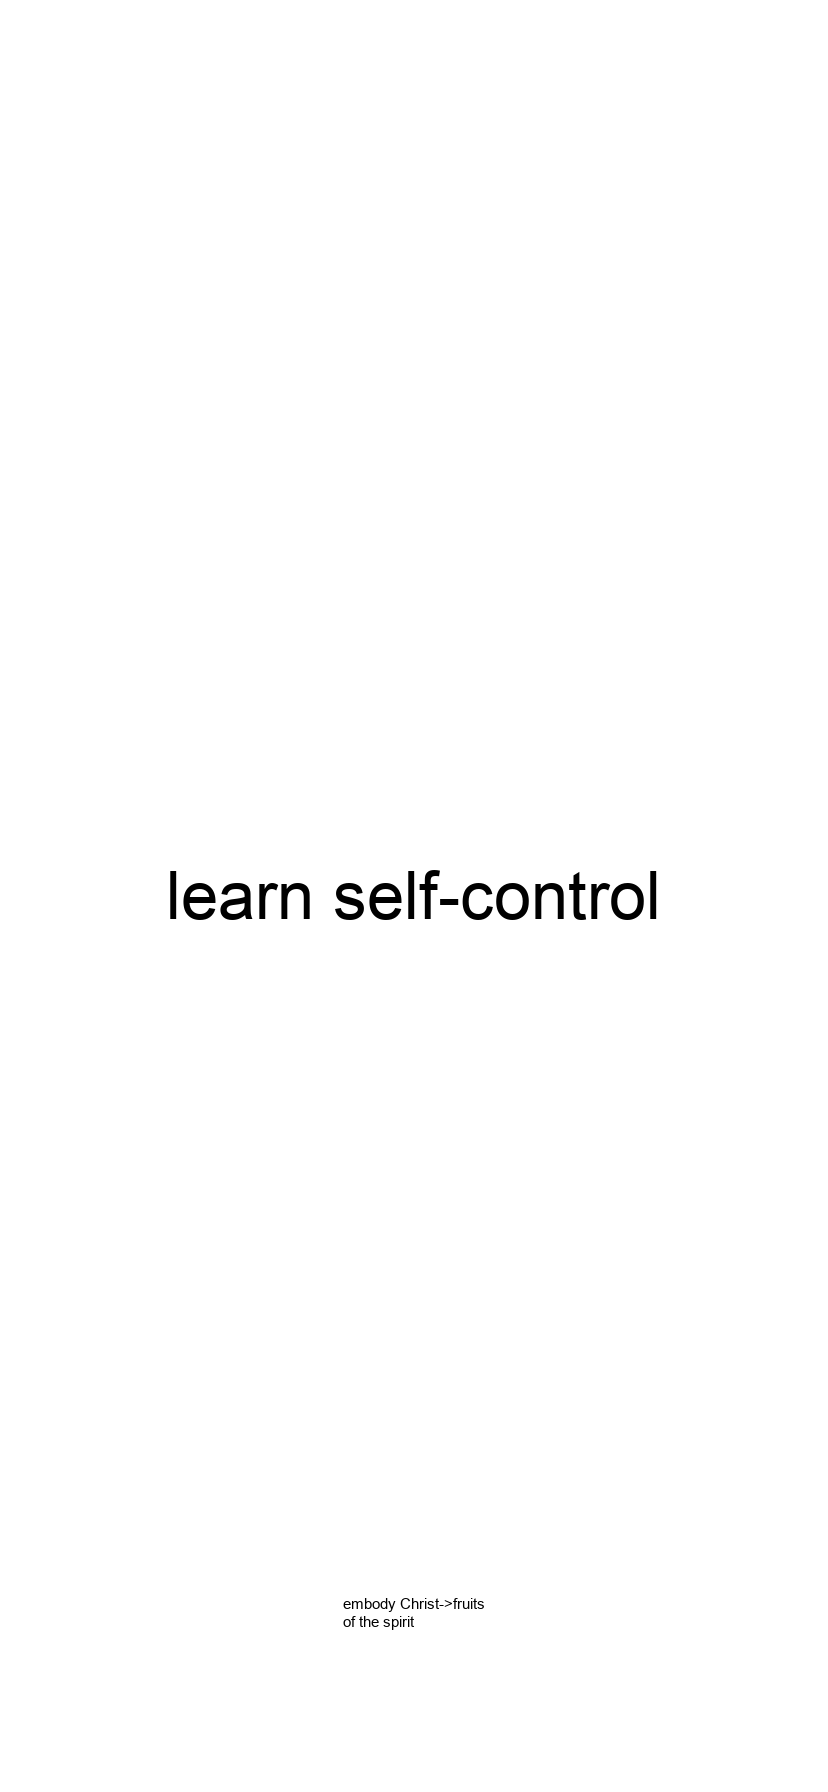
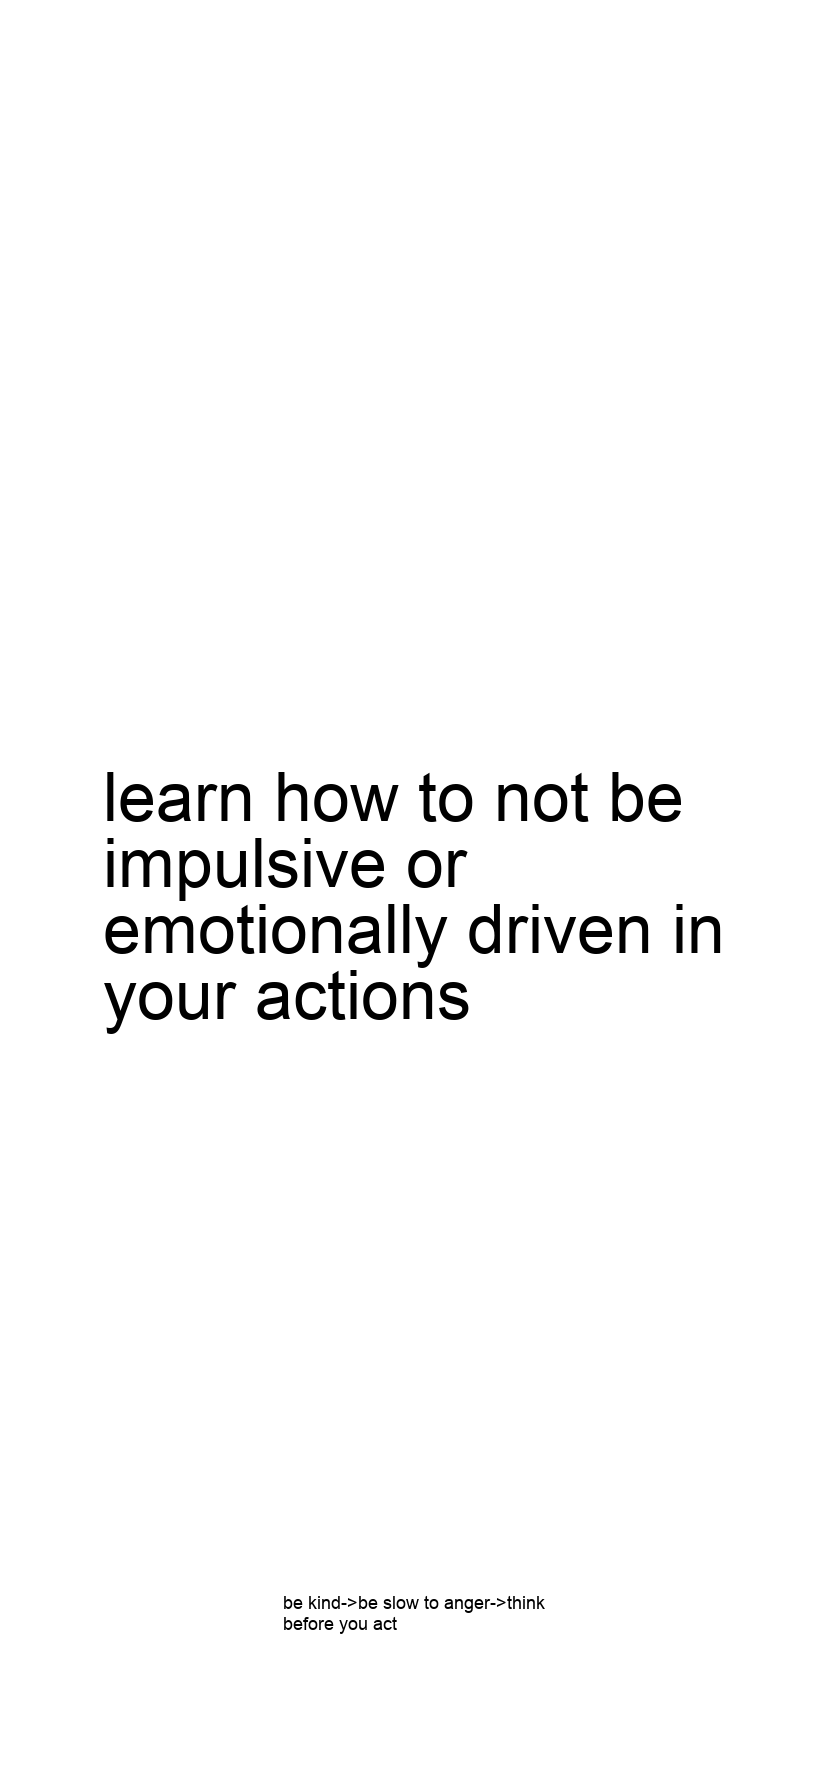
fixed bottom scaling

Changed region(s): [[0.1208, 0.4375, 0.8756, 0.5938], [0.3321, 0.875, 0.5737, 0.9062]]

diff --git a/main.py b/main.py
@@ -82,18 +82,16 @@ font_size = 1000
 font = ImageFont.truetype("Arial.ttf", font_size)
 
 text = ttp
-print(type(ttp))
+
 while font_size > 1:
   if font.getlength(text) < width*.6:
     break
   font_size -= 1
   font = font.font_variant(size=font_size)
 
-print(font_size)
-print(width/font_size)
-print((width/font_size))
+font_size1f=font_size
 text, text_l = get_wrapped_text(text, font, line_length=((10*font_size)))
-print(text_l)
+
 
 if text_l == 2:
     font = font.font_variant(size=font_size*1.33)
@@ -102,33 +100,48 @@ elif text_l > 2:
     font = font.font_variant(size=font_size*text_l)
 
 draw.multiline_text((width / 2, height / 2), text, font=font, fill="black", anchor="mm")
-print(ttp)
+
 chosen_path = lookup_path(ttp)
 chosen_path = "->".join(chosen_path[:-1])
-print(chosen_path)
+cp_len = len(chosen_path)
 
-font_size = 1000
-font2 = ImageFont.truetype("Arial.ttf", font_size)
-while font_size > 1:
-  if font2.getlength(text) < width*.6:
-    break
-  font_size -= 1
-  font2 = font2.font_variant(size=font_size)
+fl_final = font_size
 
-text2, text_l2 = get_wrapped_text(chosen_path, font2, line_length=((10*font_size)))
+# font_size = 1000
+font2 = ImageFont.truetype("Arial.ttf", font_size1f*.66)
+# while font_size > 1:
+#   if font2.getlength(text) < width*.6:
+#     break
+#   font_size -= 1
+#   font2 = font2.font_variant(size=font_size)
 
-font2 = font2.font_variant(size=font_size*(text_l2/height*100)*text_l2)
 
-# if text_l2 == 2:
-#     font2 = font2.font_variant(size=font_size*.66)
 
-# elif text_l2 > 2:
-#     font2 = font2.font_variant(size=font_size*0.225*text_l2)
+# print(font_size)
+t2_ll = 10*font_size1f
+text2, text_l2 = get_wrapped_text(chosen_path, font2, line_length=t2_ll)
 
+# # font_size2 = 1
+# while font_size1f:
+#     # iterate until the text size is just larger than the criteria
+#     font_size1f -= 1
+#     font2 = font2.font_variant(size=font_size)
+
+# print(str(t2_ll) + ":1")
+# print(str(cp_len) + ":2")
+# print('font size 2: ' + str(font_size))
+#font2 = font2.font_variant(size=(t2_ll // cp_len) * height/font_size // font_size)
+
+print(str(text_l2) + ":" + str(cp_len))
+font_size2f=font_size1f*(1.33 * text_l2)*.33
+print(str(font_size1f) + ":" + str(font_size2f) + ":" + str(20- (20 *(1/(font_size1f*0.66)))) + ":" + str(fl_final))
+
+
+font2 = font2.font_variant(size=20- (20 *(1/(font_size1f*0.66))))
 draw.multiline_text((width / 2, height-(height*0.1)), text=text2, font=font2, fill="black", anchor="mm" )
 im.save("static/out.png")
 
-print(text_l2)
+
 
 
 # account_sid = 123
